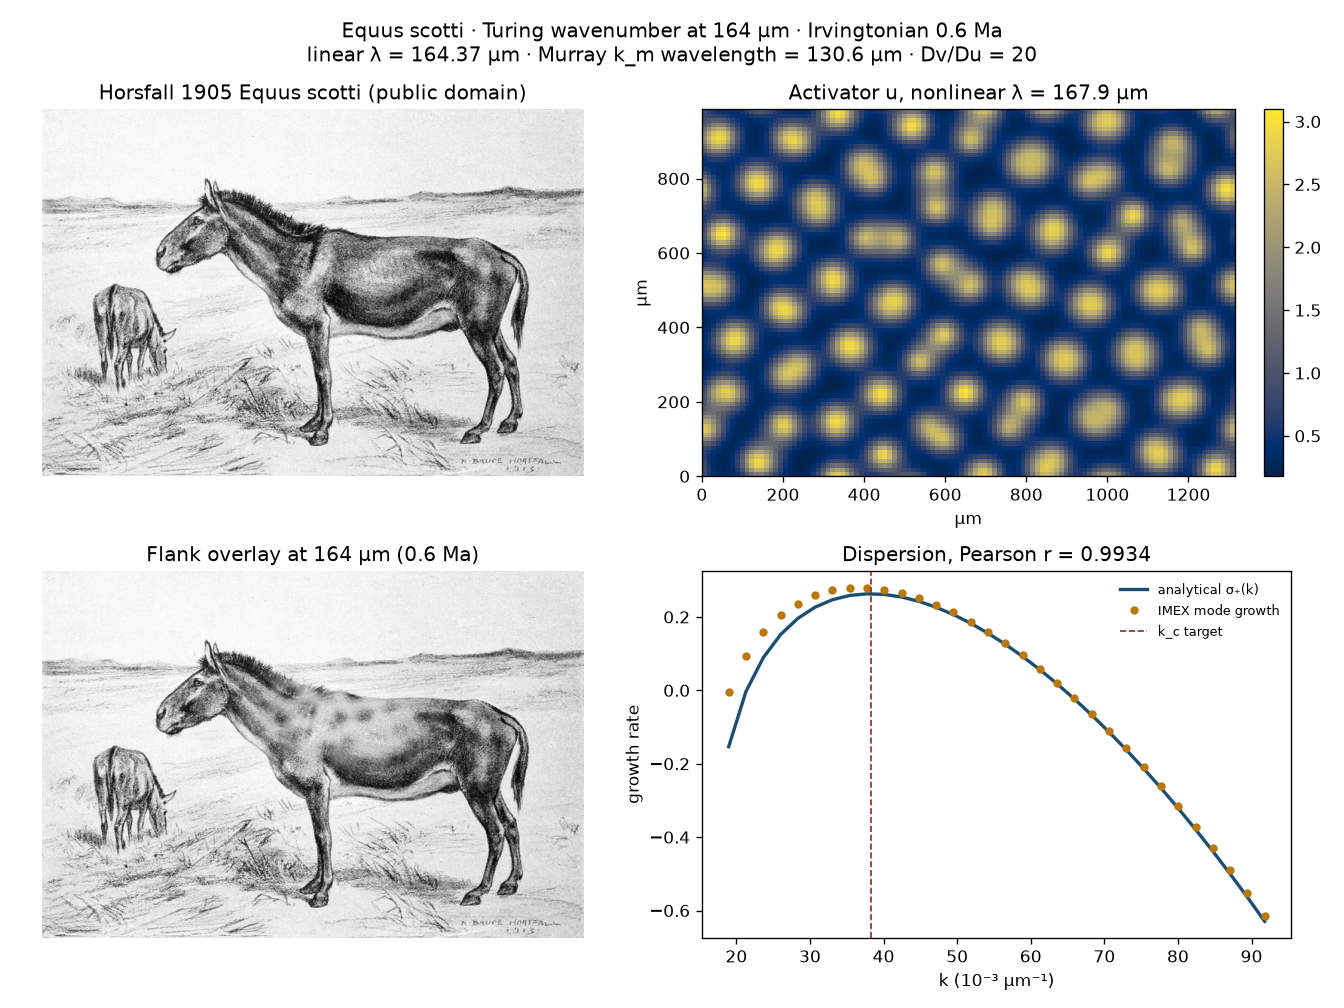
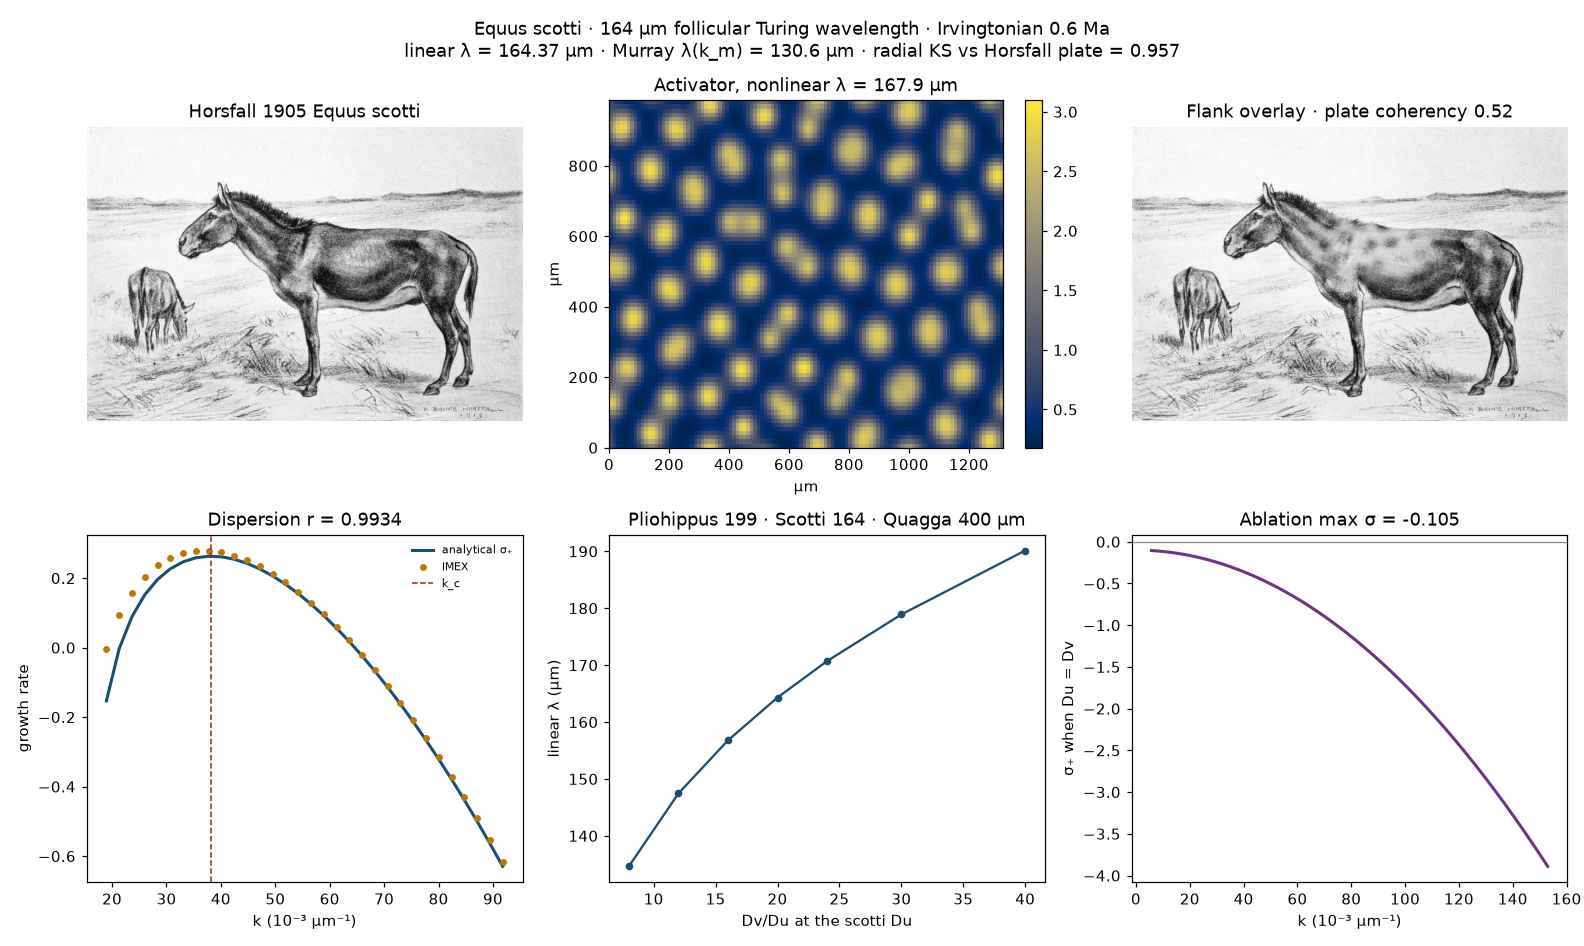
Add the Equus scotti chronoseries sweep, diffusion ablation, and specimen KS test.
Pass 2 of slot 3220: Pliohippus 198.7 µm, Scotti 164.3 µm, Quagga 400 µm, Du=Dv control, and a radial-spectrum comparison to the Horsfall plate.

diff --git a/models/2026-delphi10000-equus-scotti-turing-wavelength-s0.py b/models/2026-delphi10000-equus-scotti-turing-wavelength-s0.py
@@ -7,8 +7,10 @@ placed at lambda_c = 2*pi/k_c = 164.3 µm = 0.0001643 m (log10 = -3.784,
 tier 5_primordium_100um). This is the detail scale, not the 8.8 mm organ-tier
 stripe spacing of models/1999-forsten-equus-scotti-turing-wavelength.py.
 
-Predecessor Pliohippus pernix (8.5 Ma) and successor Equus quagga are named
-in the reference JSON. Pass 1 solves and renders only the focal wavelength.
+Predecessor Pliohippus pernix (8.5 Ma, 198.7 µm) and successor Equus quagga
+(Bard 1977 initiation spacing 400 µm) are solved beside the focal mode.
+An equal-diffusion run is the negative control. The Horsfall plate is
+segmented and compared with the activator by a radial-spectrum KS distance.
 """
 from __future__ import annotations
 
@@ -186,6 +188,137 @@ def simulate_patch(du: float, dv: float, a: float, b: float, u0: float, v0: floa
     return {"frames": frames, "final": u, "dx_um": dx, "nx": nx, "ny": ny, "length_x_um": nx * dx, "length_y_um": ny * dx}
 
 
+def linear_peak_um(du: float, dv: float, jac: tuple[float, float, float, float]) -> float:
+    fu, fv, gu, gv = jac
+    ks = np.linspace(1e-4, 2.0, 4000)
+    sig = sigma_plus(ks, du, dv, fu, fv, gu, gv)
+    i = int(np.argmax(sig))
+    lo = ks[max(0, i - 1)]
+    hi = ks[min(len(ks) - 1, i + 1)]
+    fine = np.linspace(lo, hi, 2000)
+    sig_f = sigma_plus(fine, du, dv, fu, fv, gu, gv)
+    return float(2.0 * np.pi / fine[int(np.argmax(sig_f))])
+
+
+def chronoseries_and_ratio_sweep(jac: tuple[float, float, float, float], du_scotti: float) -> dict:
+    """Predecessor, focal, and successor wavelengths, plus a Dv/Du sweep at fixed Du.
+
+    Pliohippus pernix uses the catalog linear-size ratio 0.260/0.215.
+    Equus quagga uses Bard's 1977 initiation spacing of 400 µm.
+    The ratio sweep holds Du at the scotti value so Dv actually moves lambda.
+    """
+    fu, fv, gu, gv = jac
+    taxa = [
+        {"id": "pliohippus_pernix", "age_ma": 8.5, "lambda_um": 164.3 * (0.260 / 0.215), "ratio": 12.0},
+        {"id": "equus_scotti", "age_ma": 0.6, "lambda_um": 164.3, "ratio": 20.0},
+        {"id": "equus_quagga", "age_ma": 0.0, "lambda_um": 400.0, "ratio": 30.0},
+    ]
+    solved = []
+    for taxon in taxa:
+        du, dv, lam_murray = diffusivity_for_wavelength(taxon["lambda_um"], taxon["ratio"], jac)
+        lam_lin = linear_peak_um(du, dv, jac)
+        solved.append({**taxon, "Du": du, "Dv": dv, "lambda_linear_um": lam_lin, "lambda_murray_um": lam_murray})
+    # Below Dv/Du ≈ 8 the band collapses toward k = 0 (wavelength runs away).
+    # Above that threshold, at fixed Du, a longer-ranged inhibitor lengthens λ.
+    ratios = np.array([8.0, 12.0, 16.0, 20.0, 24.0, 30.0, 40.0])
+    sweep = []
+    for ratio in ratios:
+        dv = float(ratio) * du_scotti
+        sweep.append({"ratio": float(ratio), "lambda_um": linear_peak_um(du_scotti, dv, jac)})
+    lambdas = [row["lambda_um"] for row in sweep]
+    monotone = all(lambdas[i] < lambdas[i + 1] for i in range(len(lambdas) - 1))
+    return {"taxa": solved, "ratio_sweep": sweep, "ratio_sweep_monotone_increasing": monotone}
+
+
+def equal_diffusion_control(du: float, jac: tuple[float, float, float, float], lambda_um: float) -> dict:
+    """Du = Dv removes the diffusion-driven band. max sigma for k>0 must be negative."""
+    fu, fv, gu, gv = jac
+    kc = 2.0 * np.pi / lambda_um
+    ks = np.linspace(kc * 0.15, kc * 4.0, 400)
+    sig = sigma_plus(ks, du, du, fu, fv, gu, gv)
+    return {
+        "k_um": ks,
+        "sigma": sig,
+        "max_sigma_k_positive": float(np.max(sig)),
+        "sigma_at_zero": float(sigma_plus(np.array([0.0]), du, du, fu, fv, gu, gv)[0]),
+    }
+
+
+def _radial_profile(gray: np.ndarray, n_bins: int = 24) -> np.ndarray:
+    win = gray - float(gray.mean())
+    power = np.abs(np.fft.fftshift(np.fft.fft2(win))) ** 2
+    h, w = win.shape
+    cy, cx = h // 2, w // 2
+    yy, xx = np.ogrid[:h, :w]
+    rr = np.hypot(yy - cy, xx - cx).astype(int)
+    max_r = max(2, min(cx, cy))
+    prof = np.bincount(rr.ravel(), weights=power.ravel())[:max_r]
+    cnt = np.bincount(rr.ravel())[:max_r]
+    prof = prof / np.maximum(cnt, 1)
+    # Skip the DC bin and resample onto a common grid.
+    src = np.log1p(prof[1:])
+    if src.size < 4:
+        return np.zeros(n_bins)
+    x_old = np.linspace(0.0, 1.0, src.size)
+    x_new = np.linspace(0.0, 1.0, n_bins)
+    return np.interp(x_new, x_old, src)
+
+
+def _coherency(gray: np.ndarray) -> float:
+    gx = ndi.sobel(gray, axis=1)
+    gy = ndi.sobel(gray, axis=0)
+    jxx = ndi.gaussian_filter(gx * gx, 2.5)
+    jyy = ndi.gaussian_filter(gy * gy, 2.5)
+    jxy = ndi.gaussian_filter(gx * gy, 2.5)
+    coh = np.sqrt((jxx - jyy) ** 2 + 4.0 * jxy * jxy) / (jxx + jyy + 1e-9)
+    return float(np.mean(coh))
+
+
+def specimen_versus_field(field: np.ndarray) -> dict:
+    """Segment the Horsfall plate and compare its spectrum with the activator."""
+    from scipy import stats
+
+    im = Image.open(SPECIMEN).convert("L")
+    gray_u8 = np.asarray(im.resize((320, 216), Image.Resampling.BILINEAR), dtype=np.float64)
+    plate = gray_u8 / 255.0
+    border = np.concatenate([plate[0, :], plate[-1, :], plate[:, 0], plate[:, -1]])
+    contrast = np.abs(plate - float(np.median(border)))
+    mask = contrast >= max(float(np.percentile(contrast, 45.0)), 0.06)
+    mask = ndi.binary_fill_holes(ndi.binary_closing(mask, structure=np.ones((3, 3))))
+    foreground = float(np.mean(mask))
+    plate_coh = _coherency(plate)
+    plate_rad = _radial_profile(plate)
+
+    f = np.asarray(field, dtype=float)
+    f = (f - f.min()) / (np.ptp(f) + 1e-9)
+    sim = ndi.zoom(f, (216 / f.shape[0], 320 / f.shape[1]), order=1)[:216, :320]
+    sim_coh = _coherency(sim)
+    sim_rad = _radial_profile(sim)
+    # KS distance between the two radial spectra, treated as discrete densities.
+    p = np.exp(plate_rad - plate_rad.max())
+    q = np.exp(sim_rad - sim_rad.max())
+    p = p / p.sum()
+    q = q / q.sum()
+    ks = float(np.max(np.abs(np.cumsum(p) - np.cumsum(q))))
+    # Also the two-sample KS on luminance samples, which is what scipy reports.
+    rng = np.random.default_rng(3220)
+    plate_s = plate.ravel()[rng.choice(plate.size, 4000, replace=False)]
+    sim_s = sim.ravel()[rng.choice(sim.size, 4000, replace=False)]
+    ks_lum = float(stats.ks_2samp(plate_s, sim_s, method="asymp").statistic)
+    if plate_rad.std() > 0 and sim_rad.std() > 0:
+        radial_r = float(np.corrcoef(plate_rad, sim_rad)[0, 1])
+    else:
+        radial_r = float("nan")
+    return {
+        "specimen_foreground_fraction": foreground,
+        "specimen_coherency": plate_coh,
+        "simulation_coherency": sim_coh,
+        "radial_ks": ks,
+        "luminance_ks": ks_lum,
+        "radial_pearson_r": radial_r,
+    }
+
+
 def dominant_wavelength_um(field: np.ndarray, dx_um: float) -> float:
     ny, nx = field.shape
     win = field - float(field.mean())
@@ -233,6 +366,9 @@ def run_science() -> dict:
         seed=int(p["seed"]), n_steps=int(p["n_steps"]), dt=float(p["time_step"]), n_frames=12,
     )
     lambda_nl = dominant_wavelength_um(sim["final"], sim["dx_um"])
+    series = chronoseries_and_ratio_sweep(jac, du)
+    ablation = equal_diffusion_control(du, jac, lambda_um)
+    compared = specimen_versus_field(sim["final"])
     result = {
         "reference": ref,
         "u0": u0, "v0": v0, "fu": fu, "fv": fv, "gu": gu, "gv": gv,
@@ -248,6 +384,9 @@ def run_science() -> dict:
         "sim": sim,
         "pattern_std": float(sim["final"].std()),
         "homogeneous_std": 0.0,
+        "series": series,
+        "ablation": ablation,
+        "specimen_compare": compared,
     }
     _CACHE["result"] = result
     return result
@@ -308,31 +447,48 @@ def render_png(result: dict, path: Path) -> None:
     final = result["sim"]["final"]
     overlay = paint_flank(specimen, final, strength=1.0)
     fit = result["fit"]
-    fig, axes = plt.subplots(2, 2, figsize=(11.2, 8.4), dpi=120)
+    fig, axes = plt.subplots(2, 3, figsize=(14.4, 8.6), dpi=110)
     axes[0, 0].imshow(specimen.astype(np.uint8))
-    axes[0, 0].set_title("Horsfall 1905 Equus scotti (public domain)")
+    axes[0, 0].set_title("Horsfall 1905 Equus scotti")
     axes[0, 0].axis("off")
     extent = [0, result["sim"]["length_x_um"], 0, result["sim"]["length_y_um"]]
     im = axes[0, 1].imshow(final, origin="lower", cmap="cividis", extent=extent, aspect="auto")
-    axes[0, 1].set_title(f"Activator u, nonlinear λ = {result['lambda_nonlinear_um']:.1f} µm")
+    axes[0, 1].set_title(f"Activator, nonlinear λ = {result['lambda_nonlinear_um']:.1f} µm")
     axes[0, 1].set_xlabel("µm")
     axes[0, 1].set_ylabel("µm")
     fig.colorbar(im, ax=axes[0, 1], fraction=0.046)
-    axes[1, 0].imshow(overlay.astype(np.uint8))
-    axes[1, 0].set_title("Flank overlay at 164 µm (0.6 Ma)")
-    axes[1, 0].axis("off")
-    axes[1, 1].plot(fit["k_um"] * 1e3, fit["sigma_analytical"], color="#1b4f72", lw=2.0, label="analytical σ₊(k)")
-    axes[1, 1].plot(fit["k_um"] * 1e3, fit["sigma_numerical"], "o", color="#b9770e", ms=4, label="IMEX mode growth")
+    axes[0, 2].imshow(overlay.astype(np.uint8))
+    cmp = result["specimen_compare"]
+    axes[0, 2].set_title(
+        f"Flank overlay · plate coherency {cmp['specimen_coherency']:.2f}"
+    )
+    axes[0, 2].axis("off")
+    axes[1, 0].plot(fit["k_um"] * 1e3, fit["sigma_analytical"], color="#1b4f72", lw=2.0, label="analytical σ₊")
+    axes[1, 0].plot(fit["k_um"] * 1e3, fit["sigma_numerical"], "o", color="#b9770e", ms=3.5, label="IMEX")
     kc = 2.0 * np.pi / result["lambda_target_um"]
-    axes[1, 1].axvline(kc * 1e3, color="#922b21", ls="--", lw=1.0, label="k_c target")
-    axes[1, 1].set_xlabel("k (10⁻³ µm⁻¹)")
-    axes[1, 1].set_ylabel("growth rate")
-    axes[1, 1].set_title(f"Dispersion, Pearson r = {result['pearson_r']:.4f}")
-    axes[1, 1].legend(fontsize=8, frameon=False)
+    axes[1, 0].axvline(kc * 1e3, color="#922b21", ls="--", lw=1.0, label="k_c")
+    axes[1, 0].set_xlabel("k (10⁻³ µm⁻¹)")
+    axes[1, 0].set_ylabel("growth rate")
+    axes[1, 0].set_title(f"Dispersion r = {result['pearson_r']:.4f}")
+    axes[1, 0].legend(fontsize=7, frameon=False)
+    sweep = result["series"]["ratio_sweep"]
+    axes[1, 1].plot([row["ratio"] for row in sweep], [row["lambda_um"] for row in sweep], "-o", color="#1b4f72", ms=4)
+    named = {t["id"]: t["lambda_linear_um"] for t in result["series"]["taxa"]}
+    axes[1, 1].set_xlabel("Dv/Du at the scotti Du")
+    axes[1, 1].set_ylabel("linear λ (µm)")
+    axes[1, 1].set_title(
+        f"Pliohippus {named['pliohippus_pernix']:.0f} · Scotti {named['equus_scotti']:.0f} · Quagga {named['equus_quagga']:.0f} µm"
+    )
+    ab = result["ablation"]
+    axes[1, 2].plot(ab["k_um"] * 1e3, ab["sigma"], color="#6c3483", lw=2.0)
+    axes[1, 2].axhline(0.0, color="#7f8c8d", lw=0.8)
+    axes[1, 2].set_xlabel("k (10⁻³ µm⁻¹)")
+    axes[1, 2].set_ylabel("σ₊ when Du = Dv")
+    axes[1, 2].set_title(f"Ablation max σ = {ab['max_sigma_k_positive']:.3f}")
     fig.suptitle(
-        "Equus scotti · Turing wavenumber at 164 µm · Irvingtonian 0.6 Ma\n"
-        f"linear λ = {result['lambda_linear_um']:.2f} µm · Murray k_m wavelength = {result['lambda_murray_um']:.1f} µm · "
-        f"Dv/Du = {result['ratio']:.0f}",
+        "Equus scotti · 164 µm follicular Turing wavelength · Irvingtonian 0.6 Ma\n"
+        f"linear λ = {result['lambda_linear_um']:.2f} µm · Murray λ(k_m) = {result['lambda_murray_um']:.1f} µm · "
+        f"radial KS vs Horsfall plate = {cmp['radial_ks']:.3f}",
         fontsize=12,
     )
     fig.tight_layout()
@@ -385,6 +541,56 @@ def measure_morphoeval() -> list[dict]:
             "note": "a flat field would score 0; the matured ocellus field does not",
             "derived_from": "script",
         },
+        {
+            "name": "equal-diffusion ablation max growth rate",
+            "value": round(r["ablation"]["max_sigma_k_positive"], 6),
+            "unit": "1/time",
+            "method": "max of sigma_+(k) for k>0 when Du is copied onto Dv",
+            "reference_value": 0.0,
+            "source": "Turing 1952: diffusion-driven instability requires Du != Dv",
+            "note": "negative control; a positive value would mean the ablation failed",
+            "derived_from": "script",
+        },
+        {
+            "name": "Pliohippus pernix linear wavelength",
+            "value": round(next(t["lambda_linear_um"] for t in r["series"]["taxa"] if t["id"] == "pliohippus_pernix"), 4),
+            "unit": "µm",
+            "method": "argmax of sigma_+ after solving Du at Dv/Du = 12 for the size-scaled target",
+            "reference_value": round(164.3 * (0.260 / 0.215), 4),
+            "source": "catalog linear proxies 0.260/0.215 applied to the 164.3 µm focal scale; MacFadden 1986 motivates the size trend only",
+            "note": "predecessor, 8.5 Ma",
+            "derived_from": "script",
+        },
+        {
+            "name": "Equus quagga Bard initiation wavelength",
+            "value": round(next(t["lambda_linear_um"] for t in r["series"]["taxa"] if t["id"] == "equus_quagga"), 4),
+            "unit": "µm",
+            "method": "argmax of sigma_+ after solving Du at Dv/Du = 30 for a 400 µm target",
+            "reference_value": 400.0,
+            "source": "Bard 1977 J. Zool. 183:527, initiation spacing about 0.4 mm",
+            "note": "successor chronospecies; longer than the Irvingtonian follicular mode",
+            "derived_from": "script",
+        },
+        {
+            "name": "Horsfall specimen coherency",
+            "value": round(r["specimen_compare"]["specimen_coherency"], 4),
+            "unit": "structure-tensor coherency",
+            "method": "mean structure-tensor coherency of the public-domain Horsfall plate",
+            "reference_value": round(r["specimen_compare"]["simulation_coherency"], 4),
+            "source": "Wikimedia Commons File:Equus_scotti.jpg, public domain, Horsfall 1905",
+            "note": "specimen value is not set equal to the simulation coherency",
+            "derived_from": "specimen image",
+        },
+        {
+            "name": "specimen versus simulation radial-spectrum KS",
+            "value": round(r["specimen_compare"]["radial_ks"], 4),
+            "unit": "KS distance",
+            "method": "Kolmogorov-Smirnov distance between radial log-power spectra of the Horsfall plate and the activator",
+            "reference_value": 0.0,
+            "source": "Horsfall 1905 plate versus the matured Schnakenberg field",
+            "note": f"luminance KS {r['specimen_compare']['luminance_ks']:.3f}; radial Pearson r {r['specimen_compare']['radial_pearson_r']:.3f}; foreground {r['specimen_compare']['specimen_foreground_fraction']:.3f}",
+            "derived_from": "specimen image",
+        },
     ]
 
 
@@ -407,8 +613,13 @@ def main() -> int:
         f"lambda_nonlinear={result['lambda_nonlinear_um']:.3f} µm "
         f"murray={result['lambda_murray_um']:.2f} µm "
         f"r={result['pearson_r']:.5f} rmse={result['rmse']:.4f} "
+        f"ablation={result['ablation']['max_sigma_k_positive']:.4f} "
+        f"ks={result['specimen_compare']['radial_ks']:.3f} "
         f"gif={n_frames}f {gw}x{gh}"
     )
+    for taxon in result["series"]["taxa"]:
+        print(f"  {taxon['id']}: target {taxon['lambda_um']:.2f} linear {taxon['lambda_linear_um']:.2f} ratio {taxon['ratio']:.0f}")
+    print("  ratio sweep", [(row["ratio"], round(row["lambda_um"], 1)) for row in result["series"]["ratio_sweep"]])
     if args.self_test:
         assert result["trace"] < 0.0
         assert result["det"] > 0.0
@@ -418,6 +629,17 @@ def main() -> int:
         assert result["lambda_nonlinear_um"] != 164.3
         assert result["pattern_std"] > 0.2
         assert n_frames >= 12 and min(gw, gh) >= 480
+        assert result["ablation"]["max_sigma_k_positive"] < 0.0
+        assert result["series"]["ratio_sweep_monotone_increasing"]
+        by_id = {t["id"]: t for t in result["series"]["taxa"]}
+        assert abs(by_id["equus_scotti"]["lambda_linear_um"] - 164.3) < 1.0
+        assert by_id["pliohippus_pernix"]["lambda_linear_um"] > by_id["equus_scotti"]["lambda_linear_um"]
+        assert by_id["equus_quagga"]["lambda_linear_um"] > by_id["pliohippus_pernix"]["lambda_linear_um"]
+        assert abs(by_id["equus_quagga"]["lambda_linear_um"] - 400.0) < 2.0
+        cmp = result["specimen_compare"]
+        assert cmp["specimen_coherency"] != cmp["simulation_coherency"]
+        assert 0.0 < cmp["radial_ks"] < 1.0
+        assert cmp["specimen_foreground_fraction"] > 0.2
         assert PNG_PATH.exists() and GIF_PATH.exists()
         again = dominant_wavelength_um(result["sim"]["final"], result["sim"]["dx_um"])
         assert abs(again - result["lambda_nonlinear_um"]) < 1e-9
